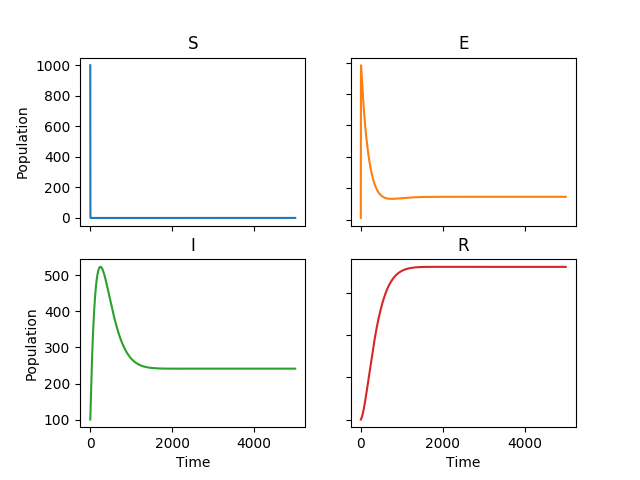
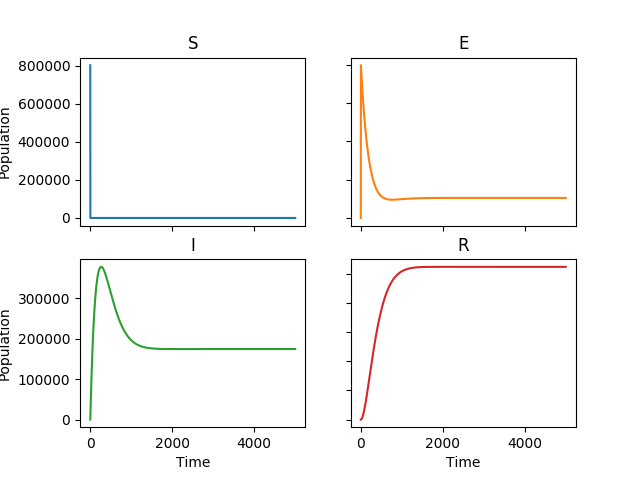
finished run_model

diff --git a/Examples/model.py b/Examples/model.py
@@ -30,7 +30,6 @@ class SEIR:
         self.outdir = outdir
         self.R = [self.start_S, self.start_E, self.start_I, self.start_R]
         
-        self.N = start_S + start_E + start_I + start_R
 
         if not os.path.isdir(self.outdir):
             self.outdir = '.'
@@ -55,28 +54,9 @@ class SEIR:
         return y
     
 
-    #self gets the coefficient variables, x is betta, and data is case data
-    def run_model(self, x, **params):
-        # have a parameter file as dict params
-        # arr = np.array([-(x*data[2]*data[0]) + (self.omega*data[3]), 
-        #                  (x*data[0]*data[2]) - (self.sigma)*data[1], self.sigma*data[1] -  self.gamma*data[2], self.gamma*data[2] - self.omega*data[3]])
-        # 
-        seir_model = SEIR(**params)
-        r = seir_model.integrate()
-        #seir_model.plot_model(r)
-
-
-        # keep
-        assert isinstance(cases_per_day, np.ndarray)
-        return cases_per_day
-
     
-    #don't know how this would work, do I need to make 4 residuals for each compartment?
-    def residuals(self, x, y, data):
-        """Calculates the residual error."""
-        empirical_data = data
-        # call convert function
-        return empirical_data - run_model(self, x, **params)
+    
+    
 
     def integrate(self):
 
@@ -85,15 +65,7 @@ class SEIR:
 
         return results
 
-    def plot(self, data):
-        time = np.arange(0, len(data))
-
-        plt.title("Cases Over Time") 
-        plt.xlabel("time") 
-        plt.ylabel("cases") 
-        plt.plot(time, data)
-        plt.savefig(os.path.join(self.outdir, 'cases.png'))
-        plt.show() 
+    
 
 
     def plot_model(self, results):
@@ -139,6 +111,9 @@ def convert(filename):
 
 
     return data
+
+
+
 
 
 
@@ -212,6 +187,46 @@ def validate_params(param_dict, float_keys, int_keys, str_keys):
 # -- define the system of differential equations
 # ----------------------------------------------------------------------------------------------
 
+def run_model(x, filename):
+    file = open(filename, "r")
+    json_object = json.load(file)
+    file.close()
+
+    json_object["beta"] = .91
+        
+    file = open(filename, "w")
+    json.dump(json_object, file)
+    file.close()
+
+
+    pars = acquire_params(filename)
+
+    seir_model = SEIR(**pars)
+    r = seir_model.integrate()
+    
+
+    #print(r)
+    cases_per_day = r[:,1]
+
+    
+    
+    return cases_per_day
+
+def residuals(self, x, y, data, filename):
+        """Calculates the residual error."""
+        empirical_data = data
+        # call convert function
+        return empirical_data - run_model(self, x, filename)
+
+def plot(data, outdir):
+        time = np.arange(0, len(data))
+
+        plt.title("Cases Over Time") 
+        plt.xlabel("time") 
+        plt.ylabel("cases") 
+        plt.plot(time, data)
+        plt.savefig(os.path.join(outdir, 'plot.png'))
+        plt.show() 
 
 def main(opts):
 
@@ -220,26 +235,37 @@ def main(opts):
     if opts['mode'] == 'single_run':
             
         pop = get_population(opts['pop_file'])
-        pars = acquire_params(opts['paramfile'])
 
+        file = open(opts['paramfile'], "r")
+        json_object = json.load(file)
+        file.close()
 
-        float_keys = ['beta', 'mu', 'sigma', 'gamma', 'omega']
-        int_keys = ['start_S', 'start_E', 'start_I', 'start_R', 'duration']
-        str_keys = ['outdir']
-        #validate_params(pars, float_keys, int_keys, str_keys)
+        json_object["start_S"] = pop
+        
+        file = open(opts['paramfile'], "w")
+        json.dump(json_object, file)
+        file.close()
 
-        # ----- Run model if inputs are valid -----#
-
-        seir_model = SEIR(**pars)
-        r = seir_model.integrate()
-        #seir_model.plot_model(r)
-
+        
         data = convert(opts['cases_file'])
 
         dates = data[:,0]
         new_reported = data[:,3]
 
-        seir_model.plot(new_reported)
+        ans = run_model(0.91, opts['paramfile'])
+        print(ans)
+
+        plot(ans, "./outputs")
+
+        #plot(new_reported, "./outputs")
+
+
+
+
+        
+
+
+        
 
 '''
     elif opts['mode'] == 'fit':
